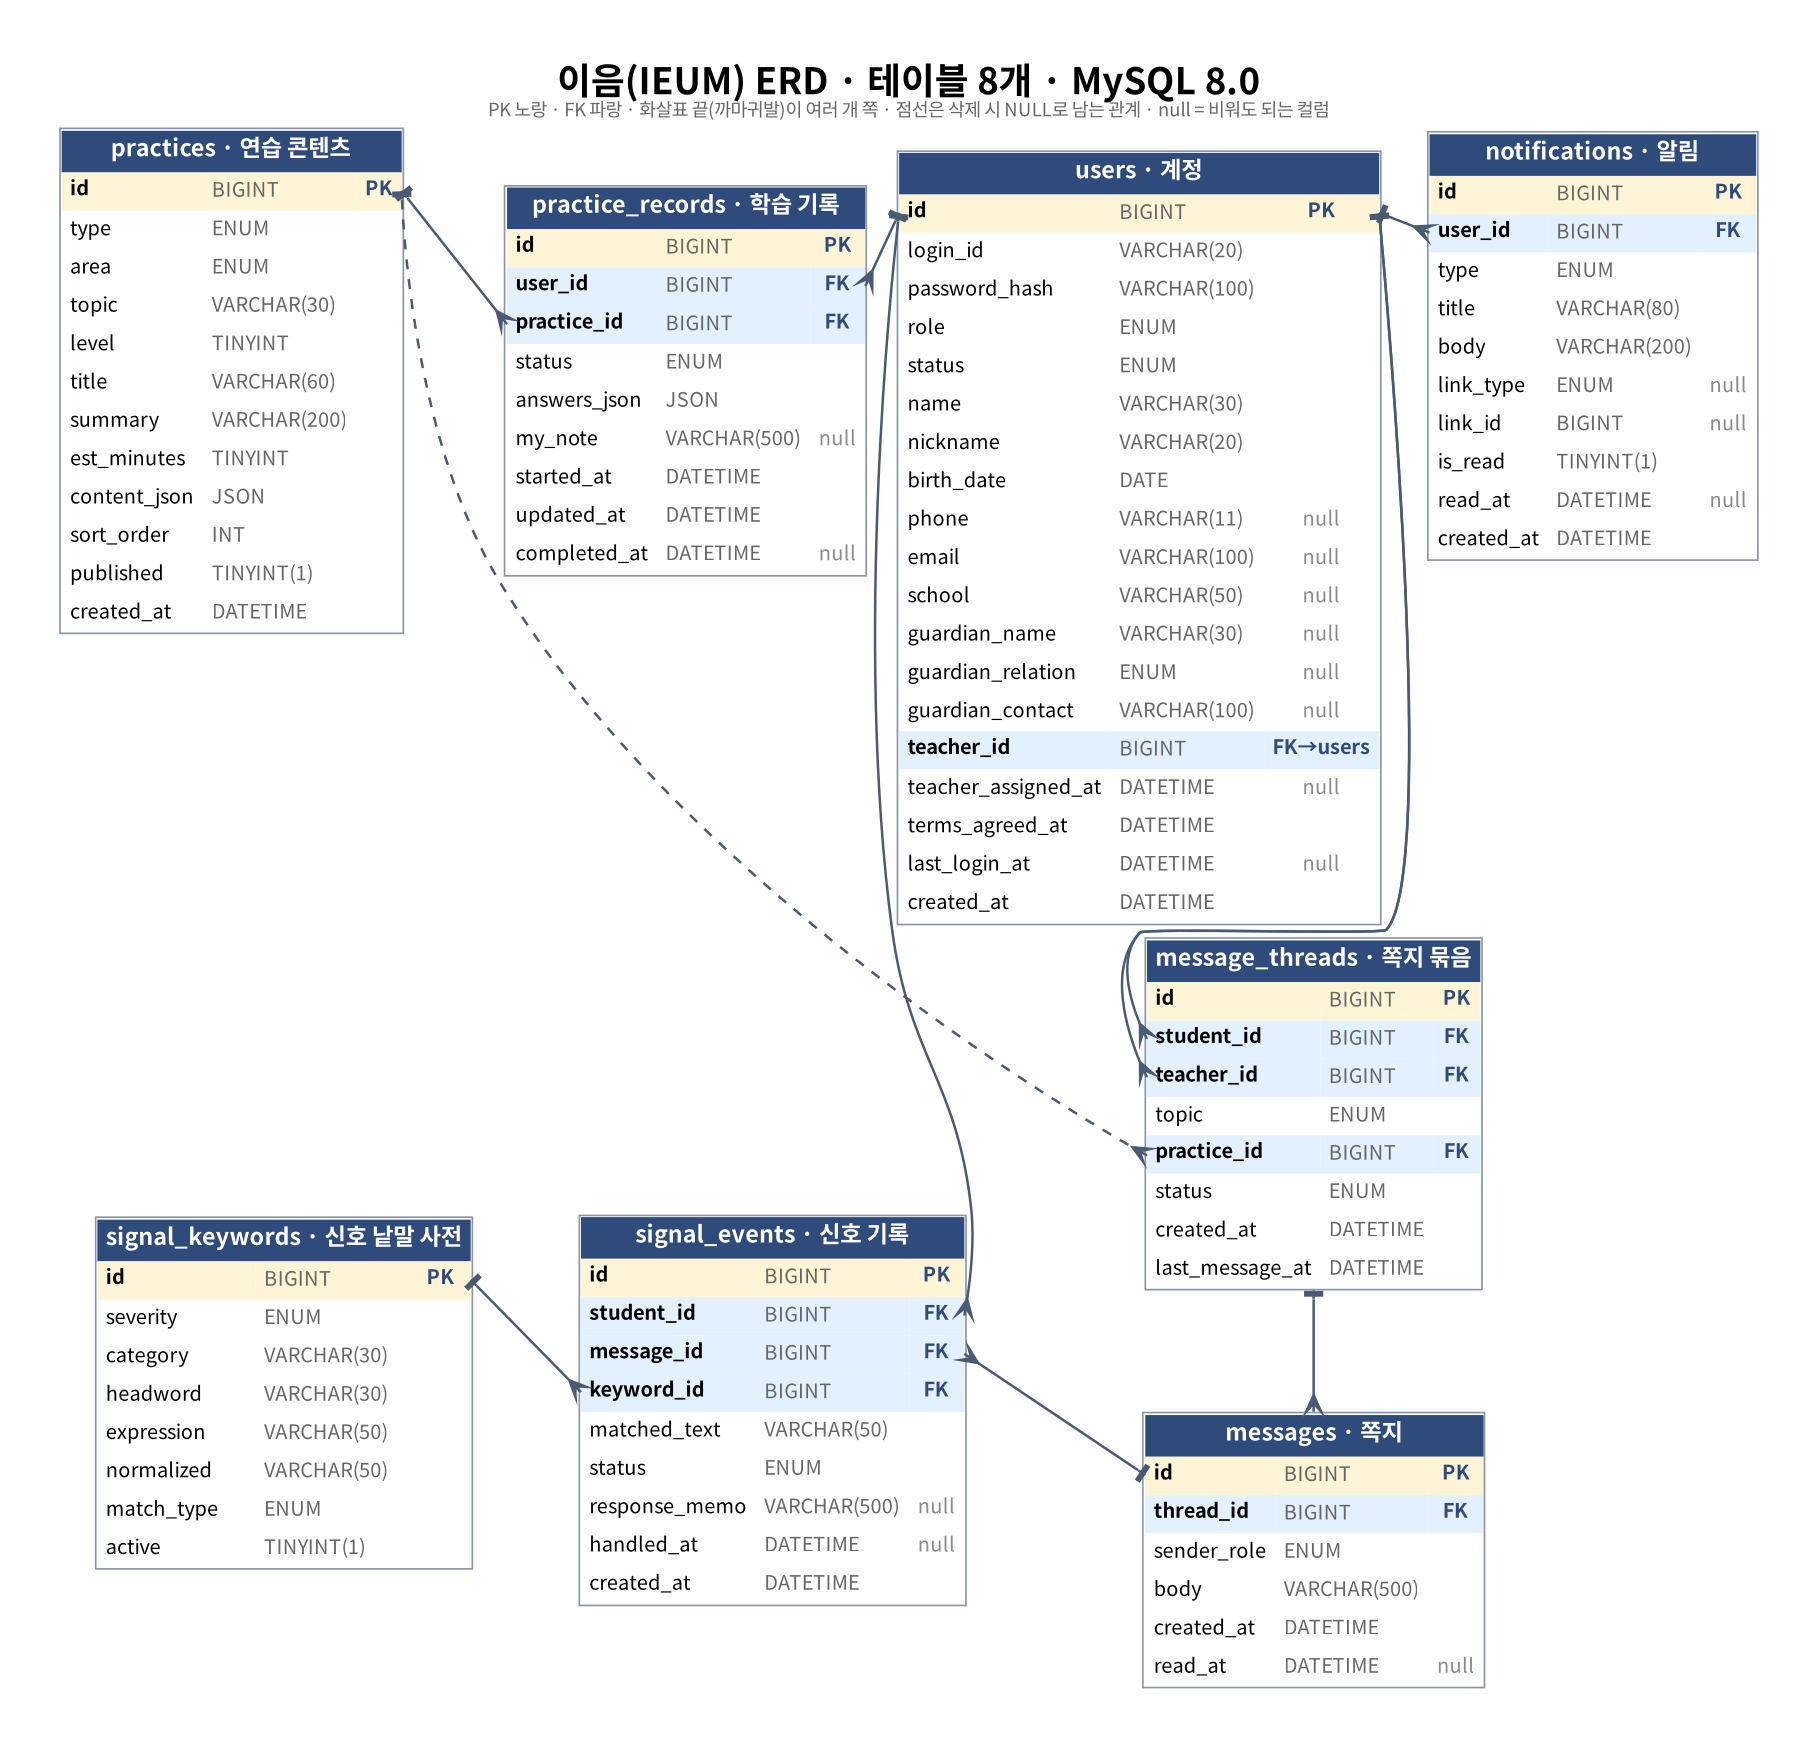
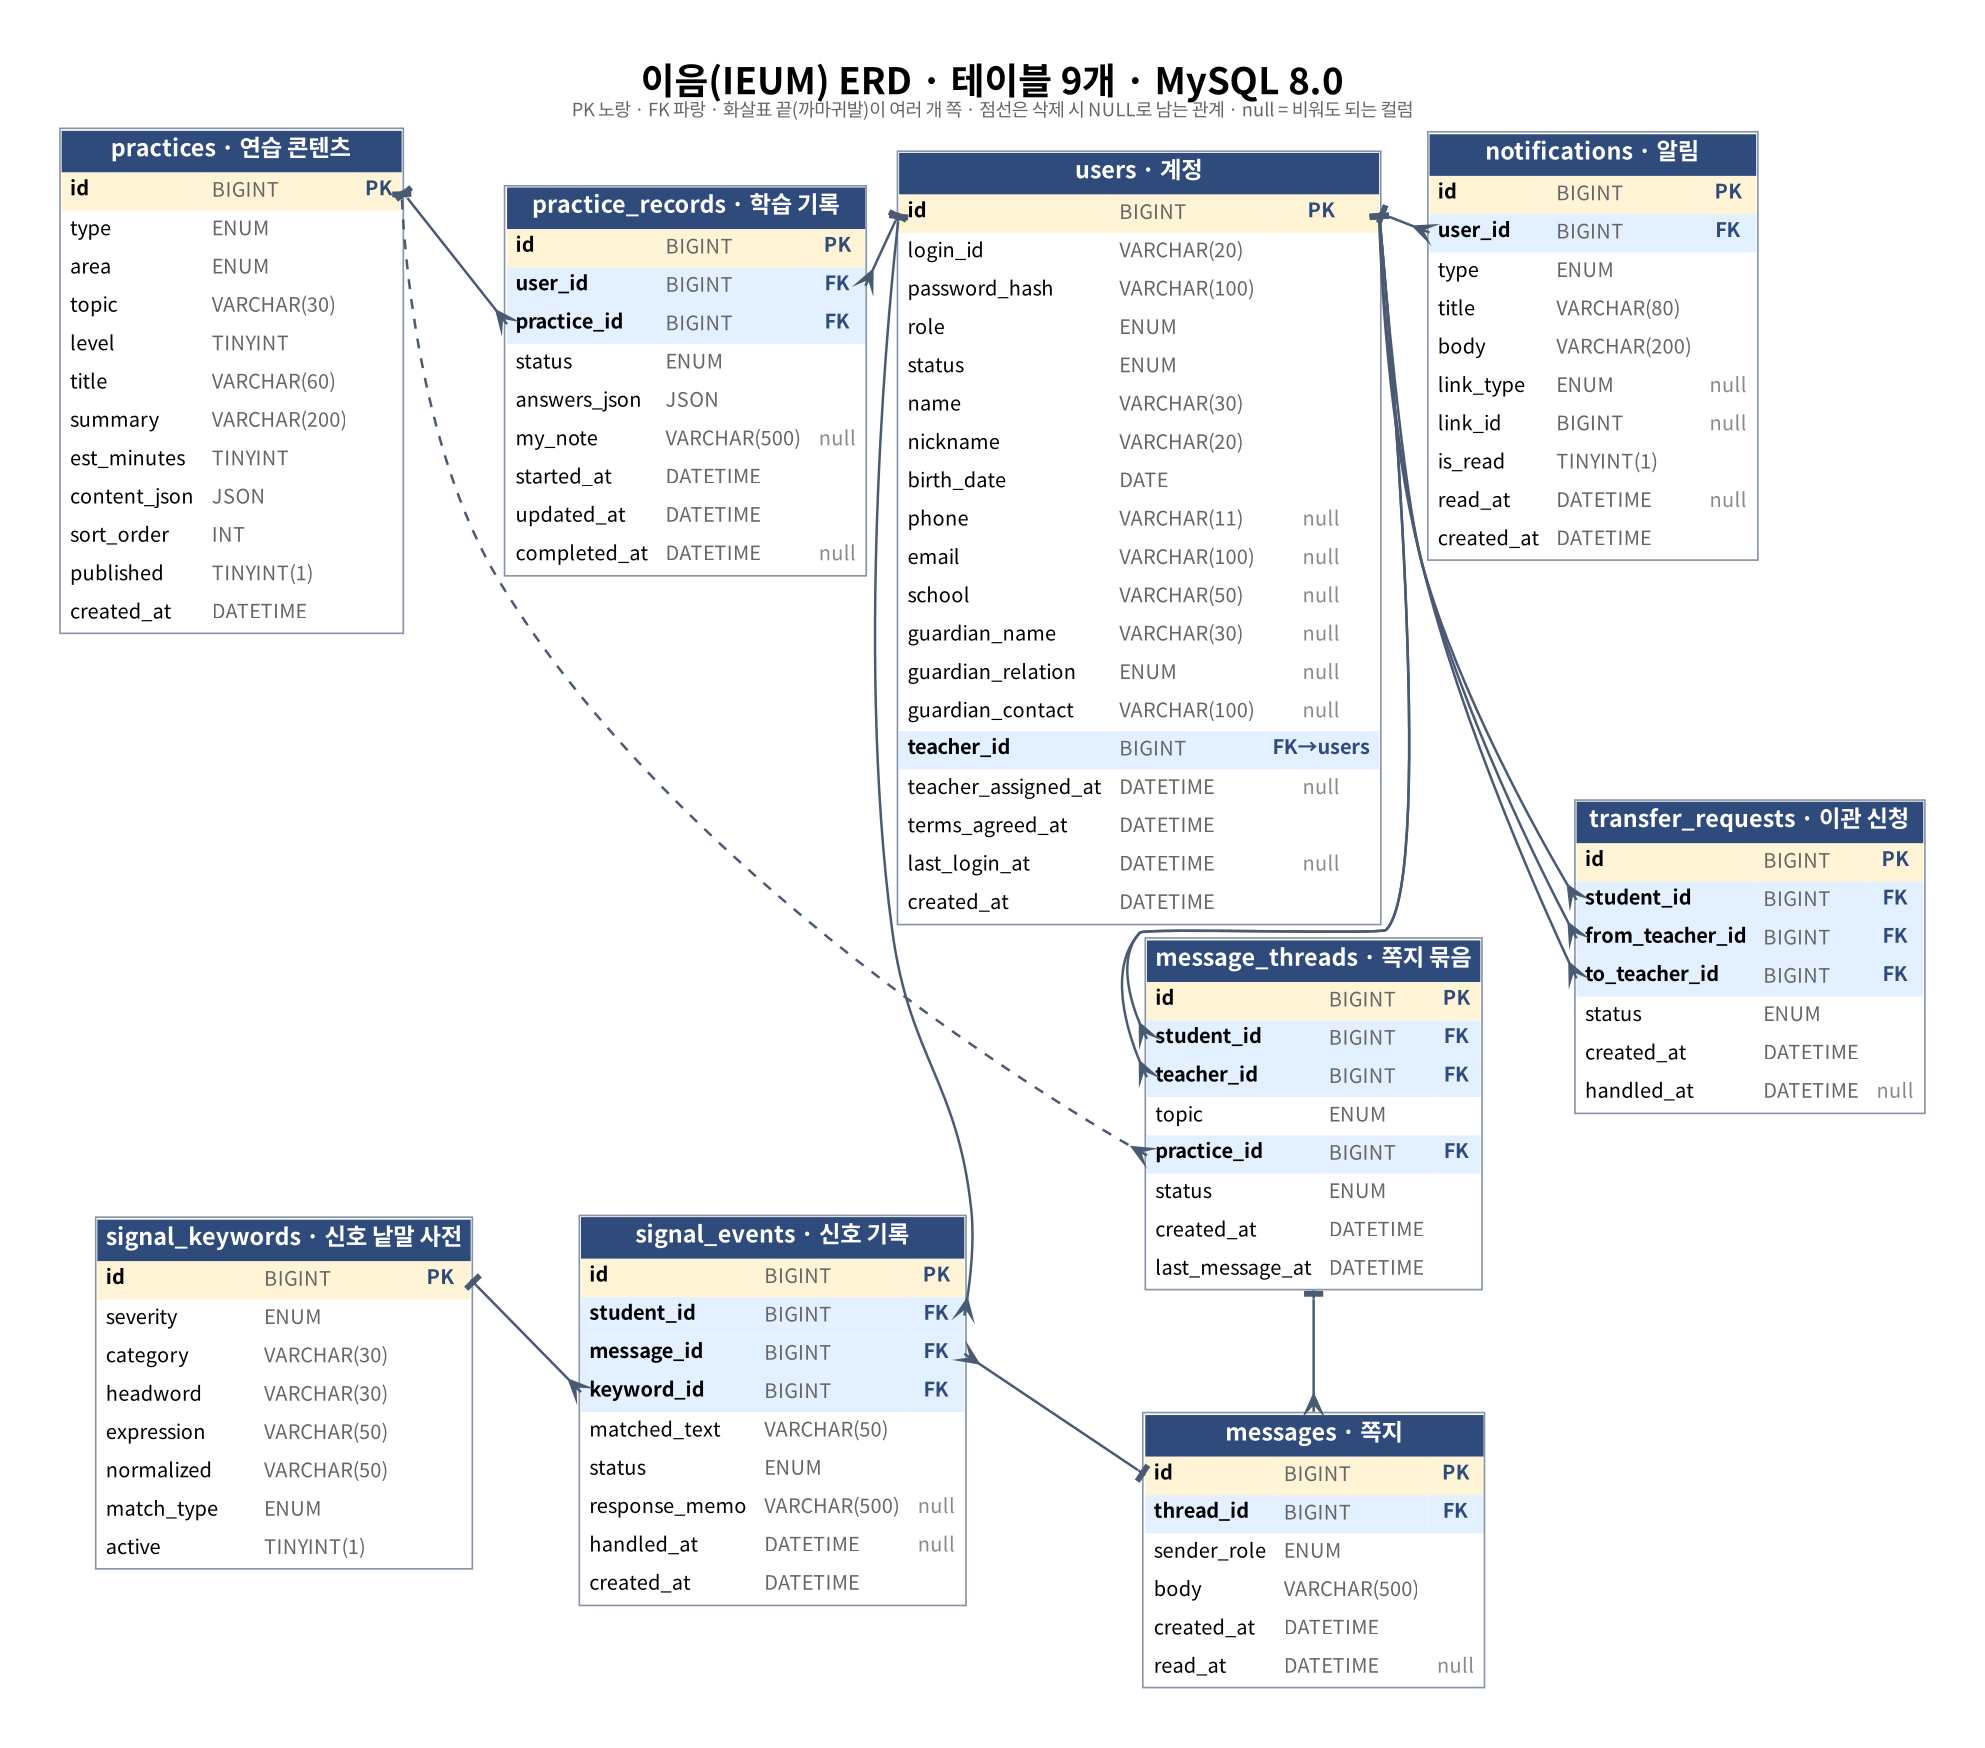
docs: DB 문서에 V6(이관 신청 테이블) 반영 #133

Changed region(s): [[0.0308, 0.0309, 0.9857, 0.7414], [0.0308, 0.6796, 0.8317, 0.9577]]

diff --git a/docs/2-설계/DB설계.md b/docs/2-설계/DB설계.md
@@ -2,13 +2,13 @@
 
 > 데이터의 구조와 관계 정의
 
-MySQL 8.0, InnoDB, utf8mb4(`utf8mb4_0900_ai_ci`). 테이블은 8개이고 스키마의 기준은 `db/` 폴더의 SQL 파일이다(V1 이후 변경은 V2, V3 … 새 파일로 쌓는다). 이 문서는 **V5(연습 콘텐츠 시드 추가)까지 적용한 상태**를 적는다.
+MySQL 8.0, InnoDB, utf8mb4(`utf8mb4_0900_ai_ci`). 테이블은 9개이고 스키마의 기준은 `db/` 폴더의 SQL 파일이다(V1 이후 변경은 V2, V3 … 새 파일로 쌓는다). 이 문서는 **V6(이음쌤 이관 신청 테이블)까지 적용한 상태**를 적는다.
 
 ## 1. ERD (물리/논리)
 
-`users`에서 학습 기록과 쪽지·신호 두 줄기가 갈라진다. `users.teacher_id`, `message_threads.student_id`·`teacher_id`는 모두 `users`를 가리킨다.
+`users`에서 학습 기록과 쪽지·신호 두 줄기가 갈라진다. `users.teacher_id`, `message_threads.student_id`·`teacher_id`, `transfer_requests.student_id`·`from_teacher_id`·`to_teacher_id`는 모두 `users`를 가리킨다.
 
-![이음 ERD (테이블 8개, 전체 컬럼)](ERD.png)
+![이음 ERD (테이블 9개, 전체 컬럼)](ERD.png)
 
 아래 Mermaid 그림은 같은 구조를 핵심 컬럼만 요약한 것이다. 전체 컬럼은 위 이미지와 2장 테이블 정의서를 본다.
 
@@ -25,6 +25,9 @@ erDiagram
     signal_keywords ||--o{ signal_events : "찾은 낱말"
     users ||--o{ signal_events : "신호가 나온 학습자(student_id)"
     users ||--o{ notifications : "받는다"
+    users ||--o{ transfer_requests : "이관 대상(student_id)"
+    users ||--o{ transfer_requests : "신청한 이음쌤(from_teacher_id)"
+    users ||--o{ transfer_requests : "받는 이음쌤(to_teacher_id)"
 
     users {
         BIGINT id PK
@@ -82,6 +85,13 @@ erDiagram
         ENUM type
         INT is_read
     }
+    transfer_requests {
+        BIGINT id PK
+        BIGINT student_id FK
+        BIGINT from_teacher_id FK
+        BIGINT to_teacher_id FK
+        ENUM status
+    }
 ```
 
 | 관계 | 설명 |
@@ -96,6 +106,7 @@ erDiagram
 | signal_keywords 1 : N signal_events | 신호가 나온 낱말을 가리킨다 |
 | users 1 : N signal_events | 신호가 나온 학습자를 가리킨다 (`student_id`, 학습자가 지워지면 신호도 함께 지워진다) |
 | users 1 : N notifications | 받는 사람(학습자·이음쌤)별 알림 |
+| users 1 : N transfer_requests | 이관 신청은 옮길 학습자, 신청한 이음쌤, 받는 이음쌤을 각각 가리킨다 (셋 중 누가 지워져도 신청은 함께 지워진다) |
 
 ## 2. 테이블 정의서
 
@@ -211,14 +222,29 @@ erDiagram
 |---|---|---|---|---|---|
 | id | BIGINT UNSIGNED | NOT NULL | PK | AUTO_INCREMENT | 알림 번호 (자동 증가) |
 | user_id | BIGINT UNSIGNED | NOT NULL | FK → users.id (ON DELETE CASCADE) |  | 받는 사람(users.id). 학습자 또는 이음쌤 |
-| type | ENUM('NOTE_RECEIVED','SIGNAL_FLAGGED','LEARNER_ASSIGNED','REPLY_ARRIVED','NOTE_READ','TEACHER_ASSIGNED') | NOT NULL |  |  | 알림 종류 6가지. NOTE_RECEIVED, SIGNAL_FLAGGED, LEARNER_ASSIGNED, REPLY_ARRIVED, NOTE_READ, TEACHER_ASSIGNED |
+| type | ENUM('NOTE_RECEIVED','SIGNAL_FLAGGED','LEARNER_ASSIGNED','REPLY_ARRIVED','NOTE_READ','TEACHER_ASSIGNED','TRANSFER_REQUESTED','TRANSFER_ACCEPTED') | NOT NULL |  |  | 알림 종류 8가지. NOTE_RECEIVED, SIGNAL_FLAGGED, LEARNER_ASSIGNED, REPLY_ARRIVED, NOTE_READ, TEACHER_ASSIGNED, TRANSFER_REQUESTED(이관 신청이 도착함), TRANSFER_ACCEPTED(이관이 수락됨) |
 | title | VARCHAR(80) | NOT NULL |  |  | 알림 제목. 서버가 정해 둔 문구만 쓴다 (쪽지 본문·찾은 낱말 금지) |
 | body | VARCHAR(200) | NOT NULL |  |  | 알림 내용. 서버가 정해 둔 문구만 쓴다 |
-| link_type | ENUM('THREAD','SIGNAL','PROFILE','STUDENT') | NULL |  |  | 눌렀을 때 이동할 곳. THREAD, SIGNAL, PROFILE, STUDENT |
+| link_type | ENUM('THREAD','SIGNAL','PROFILE','STUDENT','TRANSFER') | NULL |  |  | 눌렀을 때 이동할 곳. THREAD, SIGNAL, PROFILE, STUDENT, TRANSFER(이관 신청, link_id는 신청 번호) |
 | link_id | BIGINT UNSIGNED | NULL |  |  | 이동할 대상의 번호 |
 | is_read | TINYINT(1) | NOT NULL |  | 0 | 0 안 읽음 / 1 읽음 |
 | read_at | DATETIME | NULL |  |  | 읽은 시각 |
 | created_at | DATETIME | NOT NULL |  | CURRENT_TIMESTAMP | 알림이 만들어진 시각 |
+
+### 테이블명: transfer_requests — 이관 신청: 이음쌤끼리 학습자를 넘기자는 요청 (V6)
+
+| 컬럼명 | 데이터 타입 | Null 여부 | 제약 조건 | 기본값 | 설명 |
+|---|---|---|---|---|---|
+| id | BIGINT UNSIGNED | NOT NULL | PK | AUTO_INCREMENT | 신청 번호 (자동 증가) |
+| student_id | BIGINT UNSIGNED | NOT NULL | FK → users.id (ON DELETE CASCADE) |  | 옮길 학습자. 학습자가 지워지면 신청도 지워진다 |
+| from_teacher_id | BIGINT UNSIGNED | NOT NULL | FK → users.id (ON DELETE CASCADE) |  | 신청한 이음쌤(지금 담당) |
+| to_teacher_id | BIGINT UNSIGNED | NOT NULL | FK → users.id (ON DELETE CASCADE) |  | 받는 이음쌤. 이 사람이 수락한다 |
+| status | ENUM('PENDING','ACCEPTED') | NOT NULL |  | 'PENDING' | 기다림 / 수락함. 거절은 없다 |
+| created_at | DATETIME | NOT NULL |  | CURRENT_TIMESTAMP | 신청한 시각 |
+| handled_at | DATETIME | NULL |  |  | 수락한 시각 |
+
+- 한 학습자에게 기다리는(`PENDING`) 신청은 1건만 둔다. 이 규칙은 DB가 아니라 신청 API가 확인한다(5장 참고).
+- 수락하면 `users.teacher_id`·`teacher_assigned_at`과 `message_threads.teacher_id`를 받는 이음쌤으로 한 번에 바꾸고, 신청한 이음쌤에게 `TRANSFER_ACCEPTED` 알림을 보낸다. 학습자에게는 알림을 보내지 않는다.
 
 ## 3. 데이터 이력 관리 정책
 - 삭제 방식: **Hard Delete** (삭제 여부 플래그 컬럼을 두지 않는다)
@@ -227,6 +253,7 @@ erDiagram
   - 학습 기록·쪽지·신호·알림은 모두 `users`에 딸려 있어서, `users` 행을 지우면 `ON DELETE CASCADE`로 함께 사라진다. 지워야 하는 곳이 한 곳이다.
   - 신호 기록과 쪽지 본문까지 지우므로 개인정보 보유 기간 안내와 맞다.
 - 예외: `practices`(연습 콘텐츠)는 삭제하지 않고 `published = 0`으로 목록에서 숨긴다. 수정·삭제 API가 없고 시드 SQL로만 등록한다.
+- 이관 신청(`transfer_requests`)은 수락한 뒤에도 행을 남기고 `handled_at`에 시각을 적는다. 학습자나 이음쌤이 지워지면 신청도 함께 지워진다.
 - 이음쌤 행이 지워져도 `users.teacher_id`는 NULL이 되고(ON DELETE SET NULL), 쪽지 묶음이 남아 있는 이음쌤은 `message_threads.teacher_id`에 삭제 규칙이 없어서 먼저 지울 수 없다. 이음쌤 삭제 전에 담당을 이관한다.
 
 ## 4. 인덱스와 유니크 키
@@ -247,10 +274,12 @@ erDiagram
 | signal_events | ix_signal_status | status, created_at | 확인 필요 신호 목록 (16·20) |
 | signal_events | ix_signal_student | student_id | 학습자별 신호 (17) |
 | notifications | ix_notifications_user | user_id, is_read, created_at | 받는 사람별 안 읽음 알림 (22) |
+| transfer_requests | ix_transfer_to | to_teacher_id, status, created_at | 받는 이음쌤의 기다리는 신청 (이관 수락 API) |
+| transfer_requests | ix_transfer_student | student_id, status | 학습자별 기다리는 신청 확인 (이관 신청 API) |
 
 ## 5. 설계 결정 (대안 비교)
 
-원래 설계(API 150개·테이블 56개)를 1주·3인 일정에 맞춰 **API 24개·테이블 8개**로 줄였다. 줄인 기능은 버리지 않고 보관 원본(역설계 초안)에 남겨 두었다.
+원래 설계(API 150개·테이블 56개)를 1주·3인 일정에 맞춰 **API 24개·테이블 8개**로 줄였다. 줄인 기능은 버리지 않고 보관 원본(역설계 초안)에 남겨 두었다. 이후 이음쌤끼리 하는 이관을 더하면서 테이블 1개(`transfer_requests`, V6)와 API 2개가 늘었다.
 
 | 결정 | 선택한 방식 | 버린 대안 | 이유 |
 |---|---|---|---|
@@ -259,9 +288,11 @@ erDiagram
 | 점수 | 만들지 않는다 | 점수·순위 컬럼 | 화면이 "점수·순위·맞고 틀림을 남기지 않는다"고 약속한다 |
 | 나에게 한 줄 | `practice_records.my_note` 컬럼, 이음쌤용 쿼리가 읽지 않는다 | 별도 노트 테이블, 노트 암호화 | 이음쌤에게 보이지 않는 규칙을 쿼리 수준에서 지킨다 |
 | 신호 감지 | 쪽지를 저장하는 같은 트랜잭션에서 낱말 사전과 비교해 `signal_events`에 기록한다 | outbox 같은 별도 작업 테이블과 배치 | 쪽지 저장과 신호 기록이 함께 성공하거나 실패해야 하고, 작업 테이블을 두면 관리할 것이 는다 |
-| 이음쌤 배정 | 첫 쪽지 때 학습자 수가 가장 적은 활성 이음쌤을 `users.teacher_id`에 기록한다 | 배정 화면·배정 테이블 | 배정 이력이 필요 없다. 이관은 화면에서 신청 알림만 보여 주기로 했다 |
+| 이음쌤 배정 | 첫 쪽지 때 학습자 수가 가장 적은 활성 이음쌤을 `users.teacher_id`에 기록한다 | 배정 화면·배정 테이블 | 배정 이력이 필요 없다. 이관은 이음쌤끼리 신청·수락하는 기능(V6)으로 하고, 운영자용 대비책으로 `ops.sql`의 (5)가 담당을 바꾸면서 새 이음쌤에게 알림을 보낸다 |
 | 계정 | `users` 한 테이블에 `role`로 학습자·이음쌤을 함께 둔다 | 학습자·이음쌤·보호자 테이블 분리 | 로그인과 알림이 공통이고, 보호자는 컬럼 3개로 충분하다 |
 | 알림 | `notifications` 테이블에 받는 사람별로 저장한다 | 쪽지·신호에서 그때그때 계산 | 읽음 상태가 필요하고, 알림 제목·본문은 서버가 정한 고정 문구만 써서 쪽지 내용이 새지 않는다 |
+| 이관 신청 | `transfer_requests` 한 테이블(PENDING·ACCEPTED), 수락하면 담당과 쪽지 묶음의 이음쌤을 한 번에 바꾼다 | 알림만 보내고 신청 기록은 두지 않는다, 거절·취소 상태까지 둔다 | 수락할 때까지 신청이 남아 있어야 하고(알림만으로는 수락할 대상이 없다), 거절은 하지 않기로 해서 상태를 2가지로 줄였다 |
+| 기다리는 신청 1건 규칙 | 신청 API가 `PENDING` 행이 있는지 확인해 있으면 409 | 계산 칸(`pending_student_id`)에 UNIQUE를 걸어 DB가 막는다 | 처음 V6에 넣었더니 MySQL이 오류 1215(`Cannot add foreign key constraint`)를 냈다. 계산 칸의 재료인 `student_id`에는 `ON DELETE CASCADE` 외래키를 함께 걸 수 없기 때문이다(MariaDB는 통과해서 임시 검증에서 잡지 못했다). 학습자가 지워지면 신청도 지워지는 CASCADE가 더 중요해서 계산 칸을 빼고 API 확인으로 바꿨다 |
 | 날짜 입력 | `birth_date`는 학습자·이음쌤 모두 NOT NULL (V4) | 이음쌤은 NULL 허용 | 가입 화면과 API가 이음쌤도 생년월일을 필수로 받는다. DB도 같은 기준으로 맞췄다 |
 
 ## 6. 시드와 마이그레이션 이력
@@ -275,6 +306,7 @@ SQL 파일은 `db/`에 있고 번호 순서대로 실행한다. 이미 실행한
 | `V3__seed_practices.sql` | 연습 콘텐츠 3건 (질문지 1, 시나리오 1, 감정 읽기 1) | 나머지 연습은 V5에서 추가 |
 | `V4__users_birth_date_not_null.sql` | `users.birth_date`를 NOT NULL로 변경 | 이음쌤도 생년월일 필수. NULL인 이음쌤은 임시 값으로 채움 |
 | `V5__seed_practices_more.sql` | 연습 콘텐츠 3건 추가 (시나리오 2건, 영상 단계 질문지 1건) → 연습 6건 | 내용은 프론트 mock 문구 그대로. 영상 파일은 프론트에 있어 서버에는 질문·카드만 둔다. 다시 실행해도 중복되지 않는다 |
-| `ops.sql` | 운영 SQL 4개 | 이음쌤 등록, 보호자 확인(PENDING_GUARDIAN → ACTIVE), 비밀번호 초기화, 1년 미이용 학습자 삭제 |
+| `V6__transfer_requests.sql` | `transfer_requests` 테이블 추가(테이블 9개), `notifications`의 `type`에 TRANSFER_REQUESTED·TRANSFER_ACCEPTED, `link_type`에 TRANSFER 추가 | 이음쌤끼리 하는 이관용. 백엔드는 V6 실행 뒤에 배포한다. 처음 버전은 MySQL 오류 1215로 고쳐서 다시 만들었다(5장) |
+| `ops.sql` | 운영 SQL 5개 | 이음쌤 등록, 보호자 확인(PENDING_GUARDIAN → ACTIVE), 비밀번호 초기화, 1년 미이용 학습자 삭제, 담당 이음쌤 이관(운영자용 대비책) |
 
-이음쌤 계정(비밀번호 해시 포함)은 Git에 올리지 않는다. 레포가 Public이기 때문이다. 필요하면 가입 API(01번)에서 role=TEACHER로 가입하거나, ops.sql의 (1)에 본인이 만든 BCrypt 해시를 넣어 DB에 직접 등록한다.
+이음쌤 계정(비밀번호 해시 포함)은 Git에 올리지 않는다. 레포가 Public이기 때문이다. 이음쌤은 가입 API(01번)로 만들 수 없다(role=TEACHER는 403 TEACHER_SIGNUP_CLOSED로 거부한다). ops.sql의 (1)에 본인이 만든 BCrypt 해시를 넣어 DB에 직접 등록한다.
